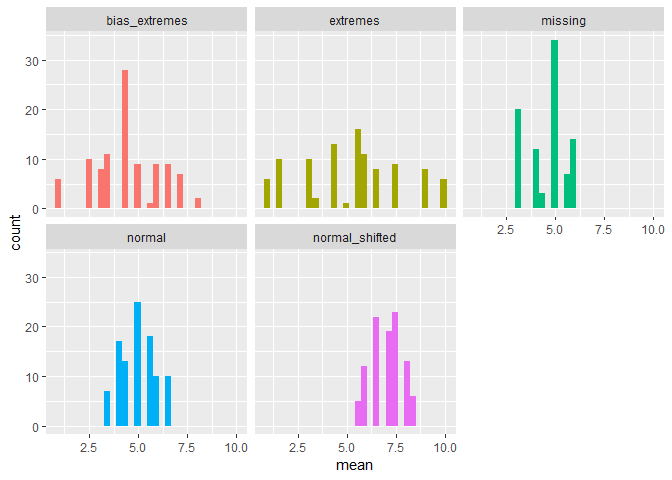
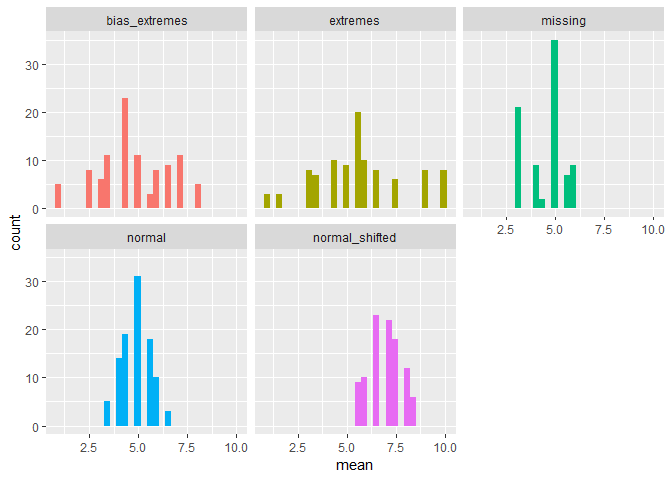
updates sampling poker

diff --git a/sampling/sampling-poker.md b/sampling/sampling-poker.md
@@ -10,6 +10,14 @@ So in our case we have a mean 5.40625 and a following distribution.
 
 ![](sampling-poker_files/figure-markdown_github/unnamed-chunk-1-1.png)
 
+| type            |  true\_mean|
+|:----------------|-----------:|
+| bias\_extremes  |    4.714286|
+| extremes        |    5.285714|
+| missing         |    4.750000|
+| normal          |    5.000000|
+| normal\_shifted |    7.000000|
+
 looking at each separately, we get
 
 ![](sampling-poker_files/figure-markdown_github/unnamed-chunk-2-1.png)
@@ -21,22 +29,31 @@ Sampling two poker chips
 
 Let's have a look at the means of those 100 samples of 10 percent of data ![](sampling-poker_files/figure-markdown_github/unnamed-chunk-4-1.png)
 
-| type            |  min|   max|
-|:----------------|----:|-----:|
-| bias\_extremes  |  1.0|   8.0|
-| extremes        |  1.0|  10.0|
-| missing         |  3.0|   6.0|
-| normal          |  3.5|   6.5|
-| normal\_shifted |  5.5|   8.5|
+    ## # A tibble: 5 x 2
+    ##   type           true_mean
+    ##   <fct>              <dbl>
+    ## 1 bias_extremes       4.71
+    ## 2 extremes            5.29
+    ## 3 missing             4.75
+    ## 4 normal              5   
+    ## 5 normal_shifted      7
+
+| type            |  min|   max|      mean|  true\_mean|
+|:----------------|----:|-----:|---------:|-----------:|
+| bias\_extremes  |  1.0|   8.0|  4.800000|    4.714286|
+| extremes        |  1.0|  10.0|  5.650000|    5.285714|
+| missing         |  3.0|   6.0|  4.524096|    4.750000|
+| normal          |  3.5|   6.5|  4.925000|    5.000000|
+| normal\_shifted |  5.5|   8.5|  6.950000|    7.000000|
 
 ### Sampling 4 poker chips
 
 Let's have a look at the means of those 100 samples of 10 percent of data ![](sampling-poker_files/figure-markdown_github/unnamed-chunk-6-1.png)
 
-| type            |   min|   max|
-|:----------------|-----:|-----:|
-| bias\_extremes  |  2.75|  6.75|
-| extremes        |  2.25|  8.25|
-| missing         |  3.00|  6.00|
-| normal          |  4.25|  5.75|
-| normal\_shifted |  6.25|  7.75|
+| type            |   min|   max|    mean|  true\_mean|
+|:----------------|-----:|-----:|-------:|-----------:|
+| bias\_extremes  |  2.75|  6.75|  4.6900|    4.714286|
+| extremes        |  2.25|  8.25|  5.1450|    5.285714|
+| missing         |  3.00|  6.00|  4.7050|    4.750000|
+| normal          |  4.25|  5.75|  5.0175|    5.000000|
+| normal\_shifted |  6.25|  7.75|  6.9800|    7.000000|
